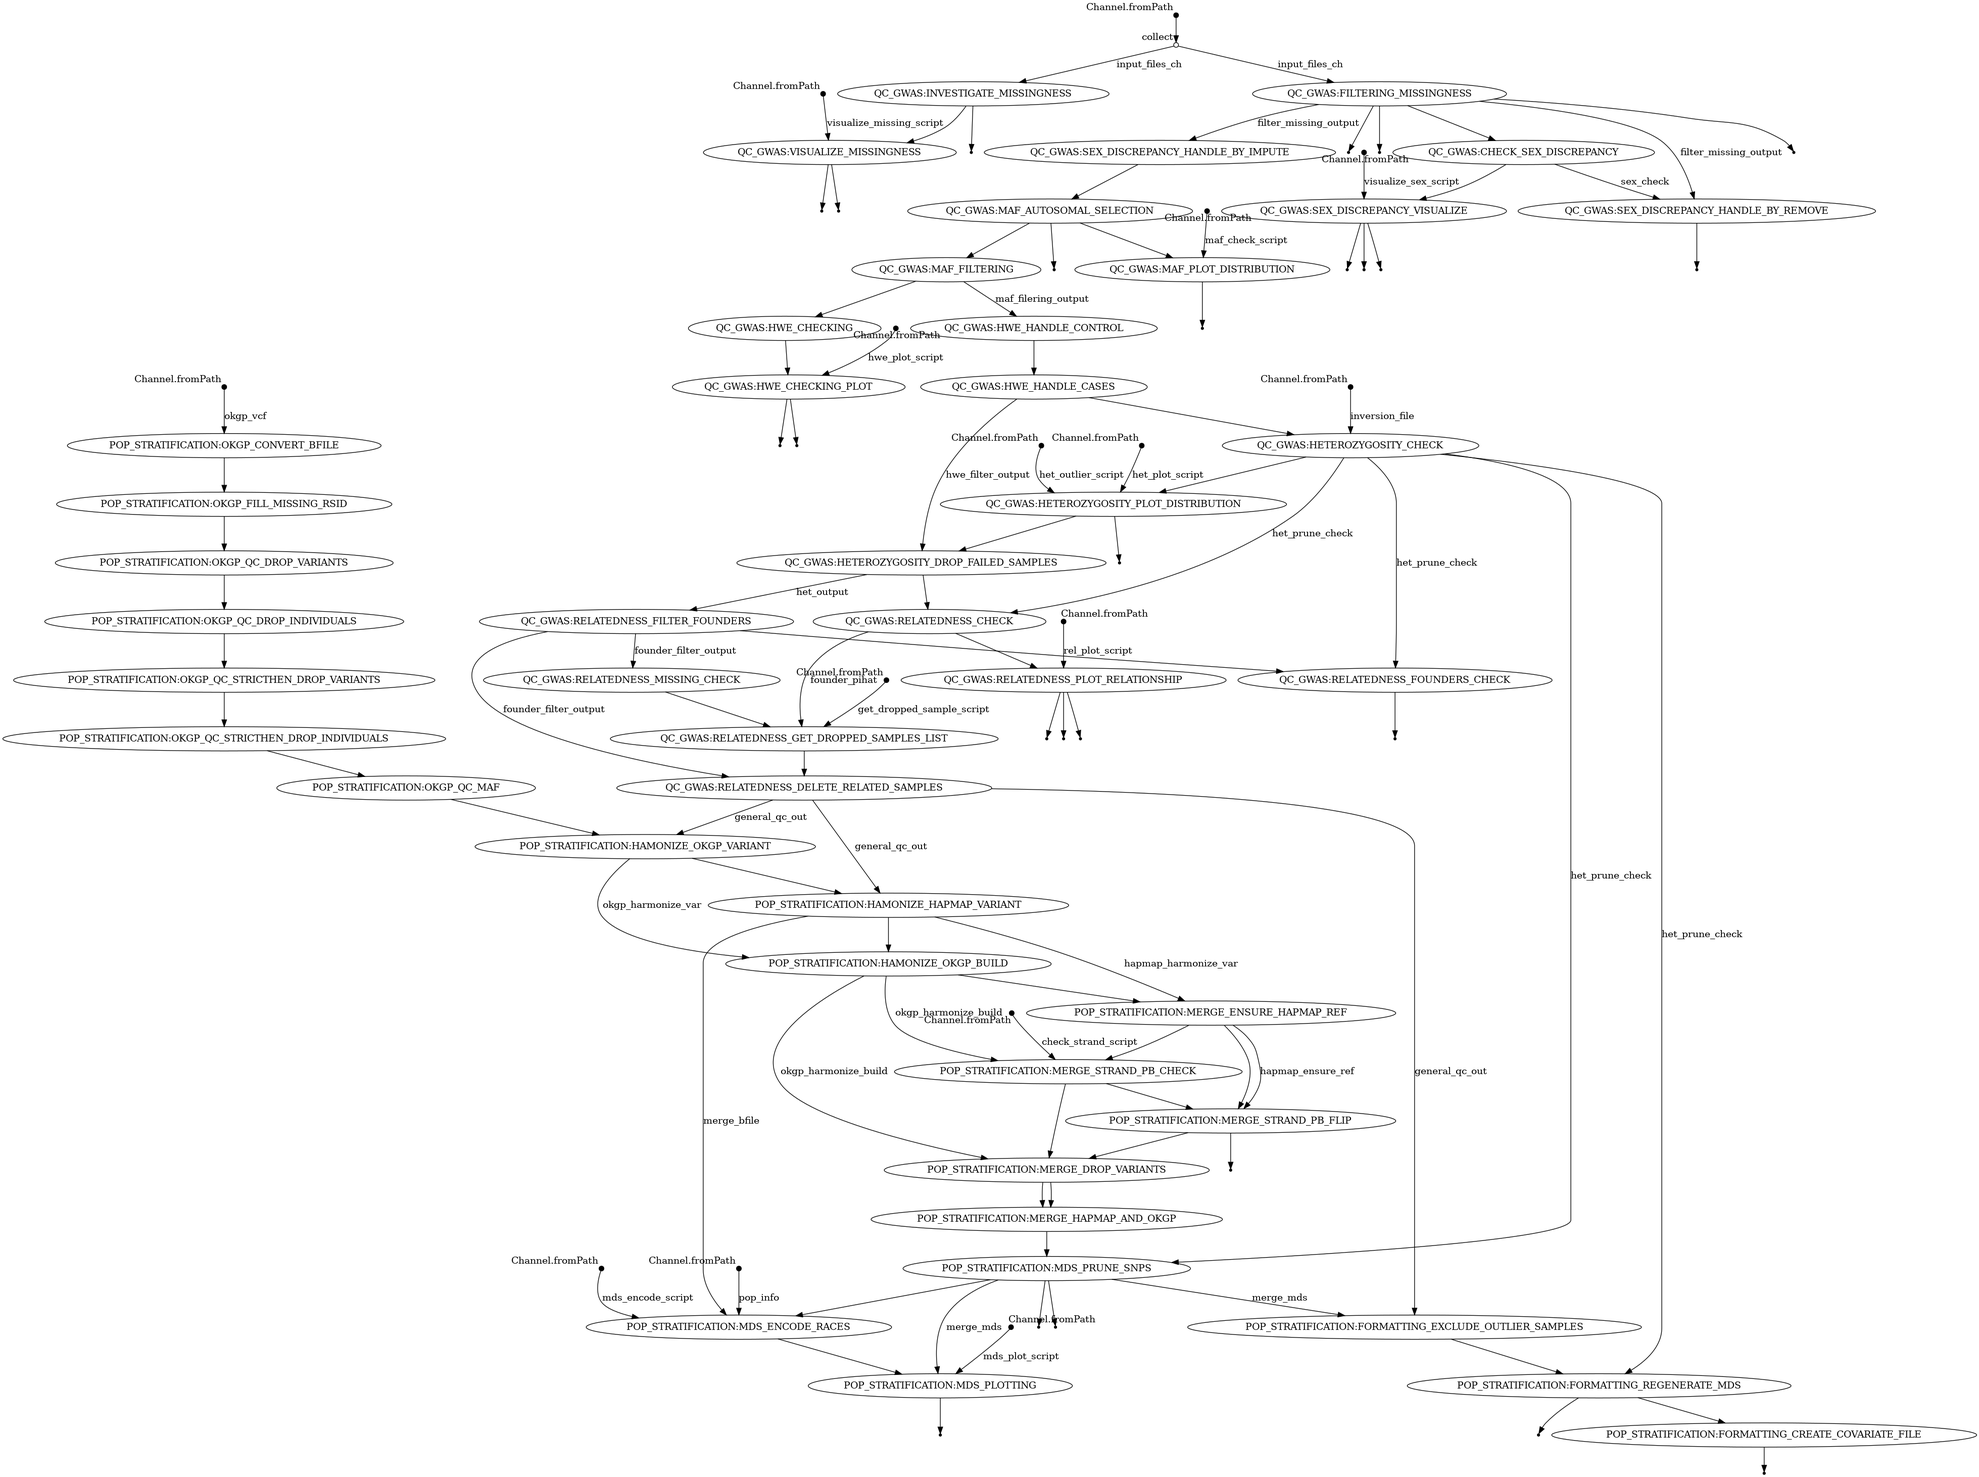
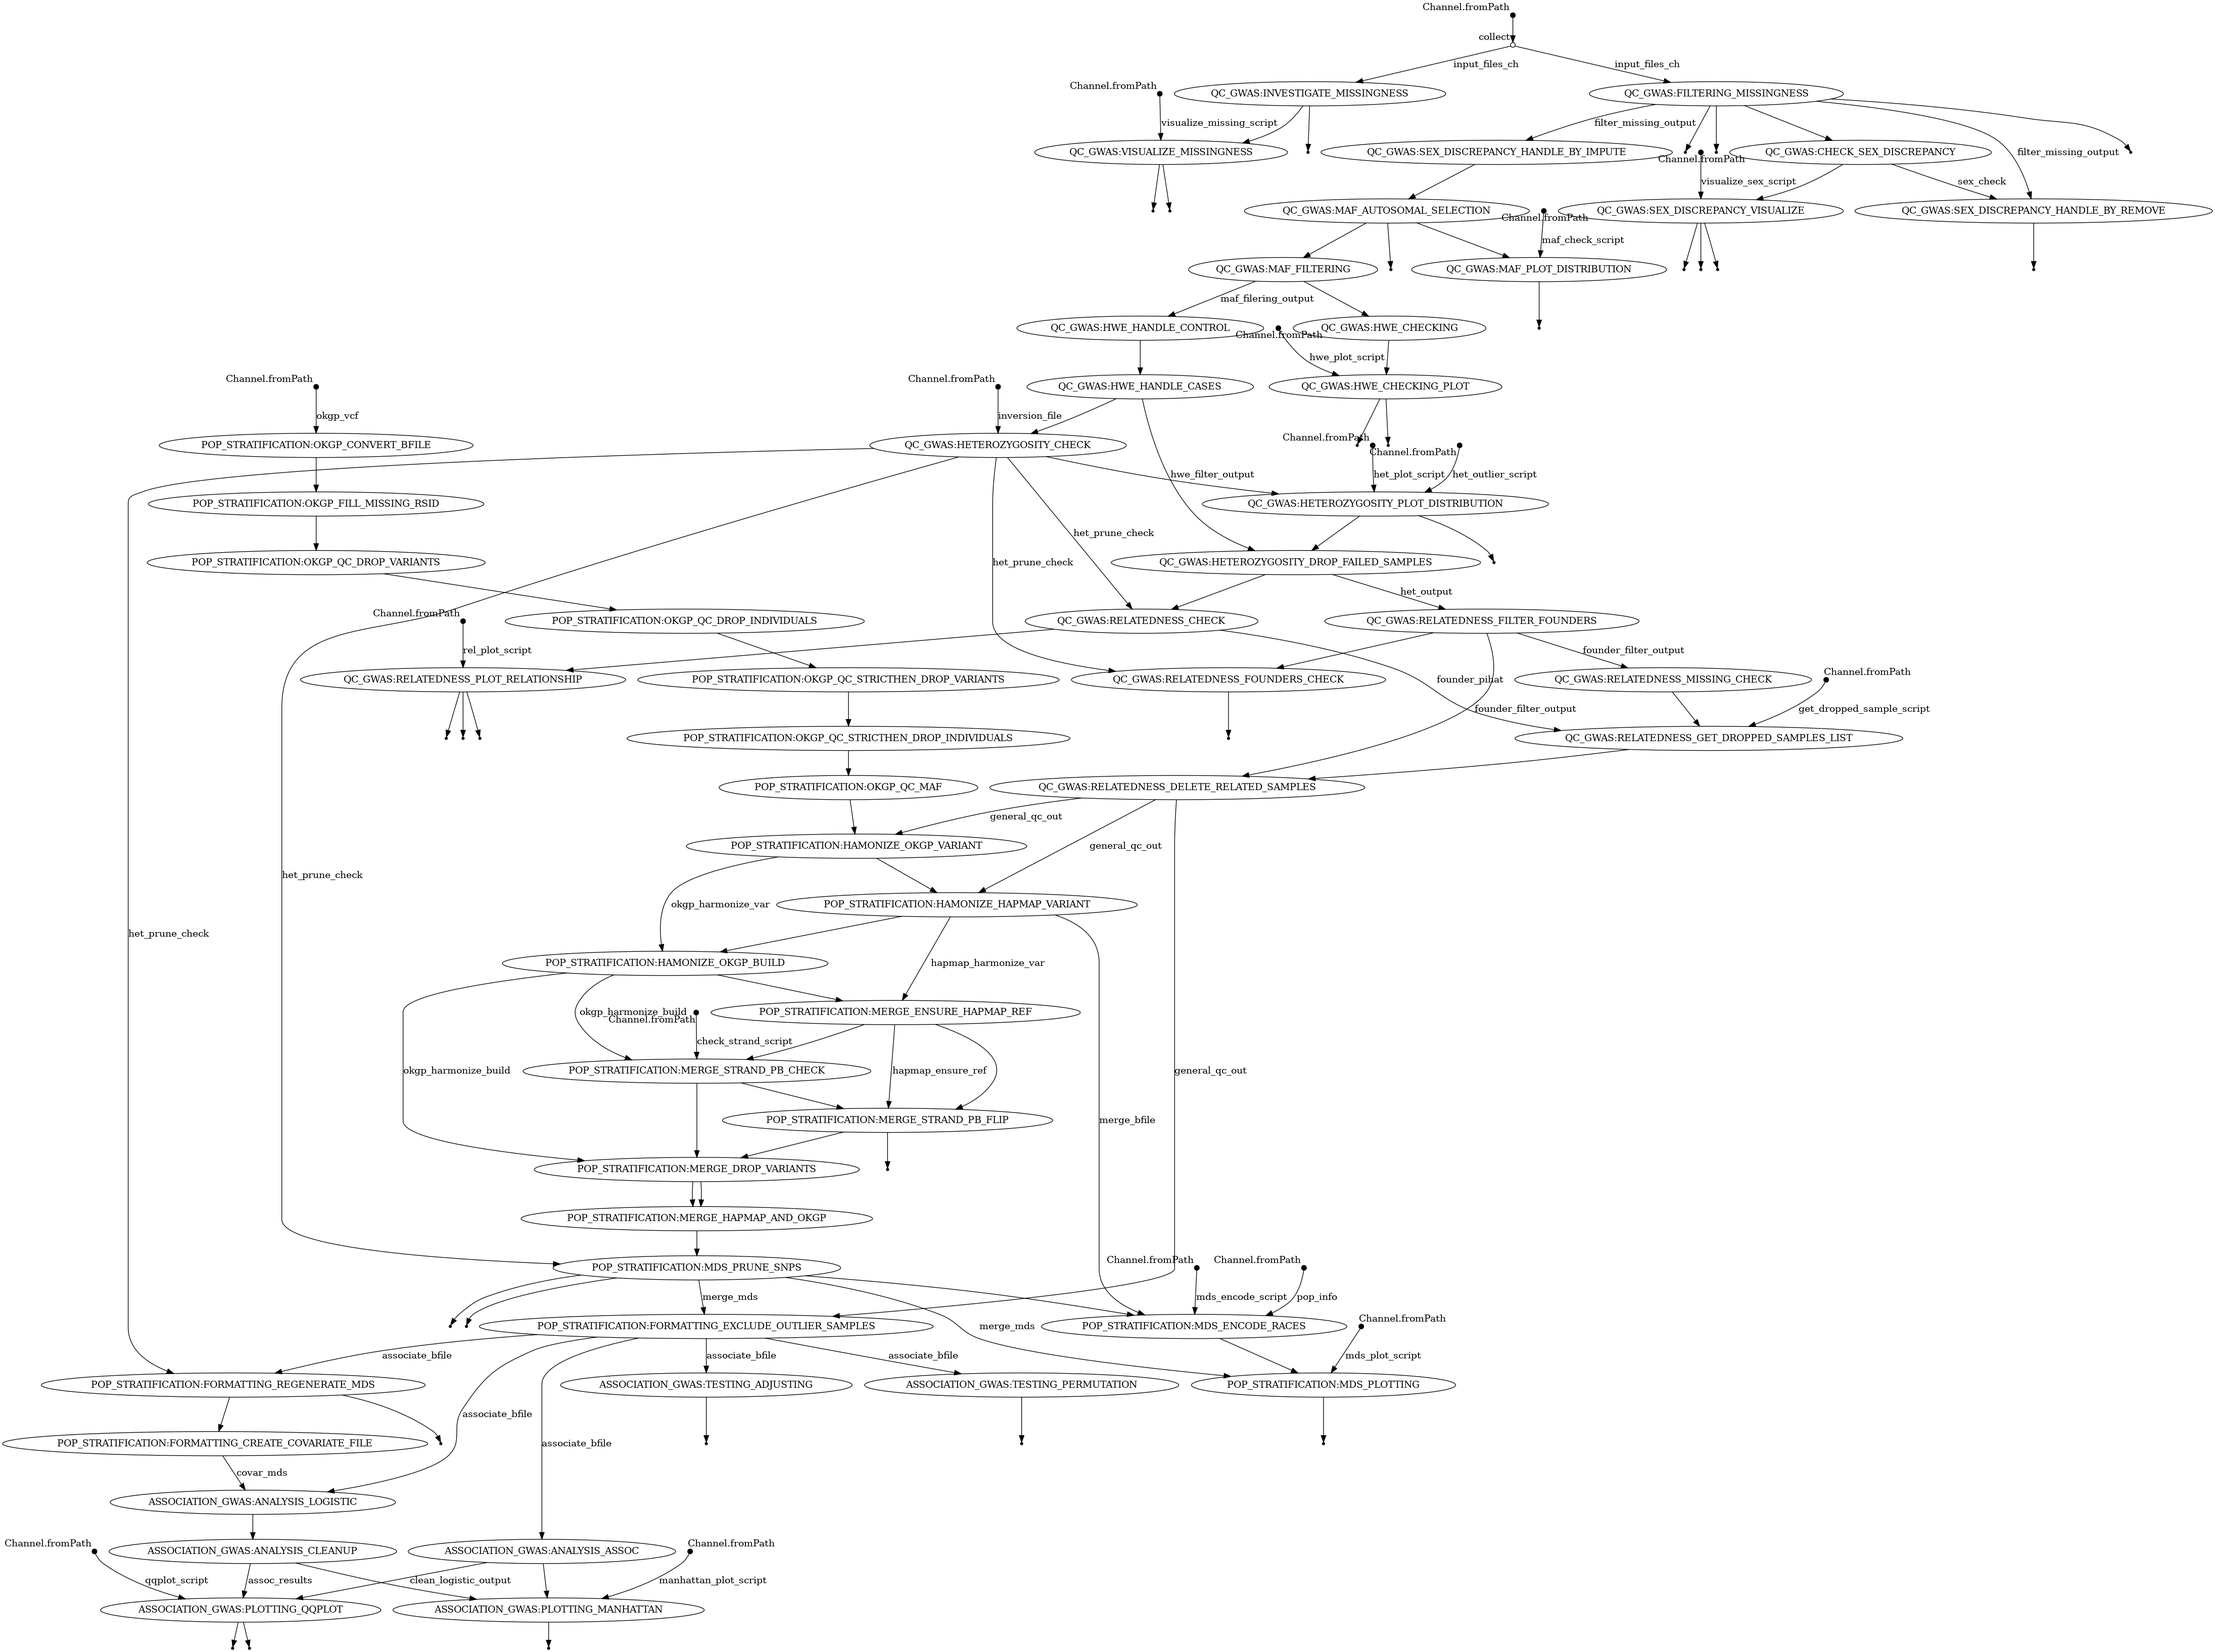
update: regenerate workflow graphs

diff --git a/assets/workflow.html b/assets/workflow.html
@@ -50,6 +50,8 @@ flowchart TB
     v75["Channel.fromPath"]
     v76["Channel.fromPath"]
     v78["Channel.fromPath"]
+    v92["Channel.fromPath"]
+    v95["Channel.fromPath"]
     end
     subgraph "QC_GWAS [QC_GWAS]"
     v3(["INVESTIGATE_MISSINGNESS"])
@@ -102,7 +104,11 @@ flowchart TB
     v74[" "]
     v80[" "]
     v83[" "]
-    v85[" "]
+    v89[" "]
+    v91[" "]
+    v94[" "]
+    v97[" "]
+    v98[" "]
     end
     subgraph "POP_STRATIFICATION [POP_STRATIFICATION]"
     v55(["OKGP_CONVERT_BFILE"])
@@ -126,6 +132,15 @@ flowchart TB
     v81(["FORMATTING_EXCLUDE_OUTLIER_SAMPLES"])
     v82(["FORMATTING_REGENERATE_MDS"])
     v84(["FORMATTING_CREATE_COVARIATE_FILE"])
+    end
+    subgraph "ASSOCIATION_GWAS [ASSOCIATION_GWAS]"
+    v85(["ANALYSIS_ASSOC"])
+    v86(["ANALYSIS_LOGISTIC"])
+    v87(["ANALYSIS_CLEANUP"])
+    v88(["TESTING_ADJUSTING"])
+    v90(["TESTING_PERMUTATION"])
+    v93(["PLOTTING_MANHATTAN"])
+    v96(["PLOTTING_QQPLOT"])
     end
     v1(( ))
     v0 --> v1
@@ -228,9 +243,25 @@ flowchart TB
     v78 --> v79
     v79 --> v80
     v81 --> v82
+    v81 --> v85
+    v81 --> v86
+    v81 --> v88
+    v81 --> v90
     v82 --> v83
     v82 --> v84
-    v84 --> v85
+    v84 --> v86
+    v85 --> v93
+    v85 --> v96
+    v86 --> v87
+    v87 --> v93
+    v87 --> v96
+    v88 --> v89
+    v90 --> v91
+    v92 --> v93
+    v93 --> v94
+    v95 --> v96
+    v96 --> v98
+    v96 --> v97
 
 </pre>
 <script type="module">
